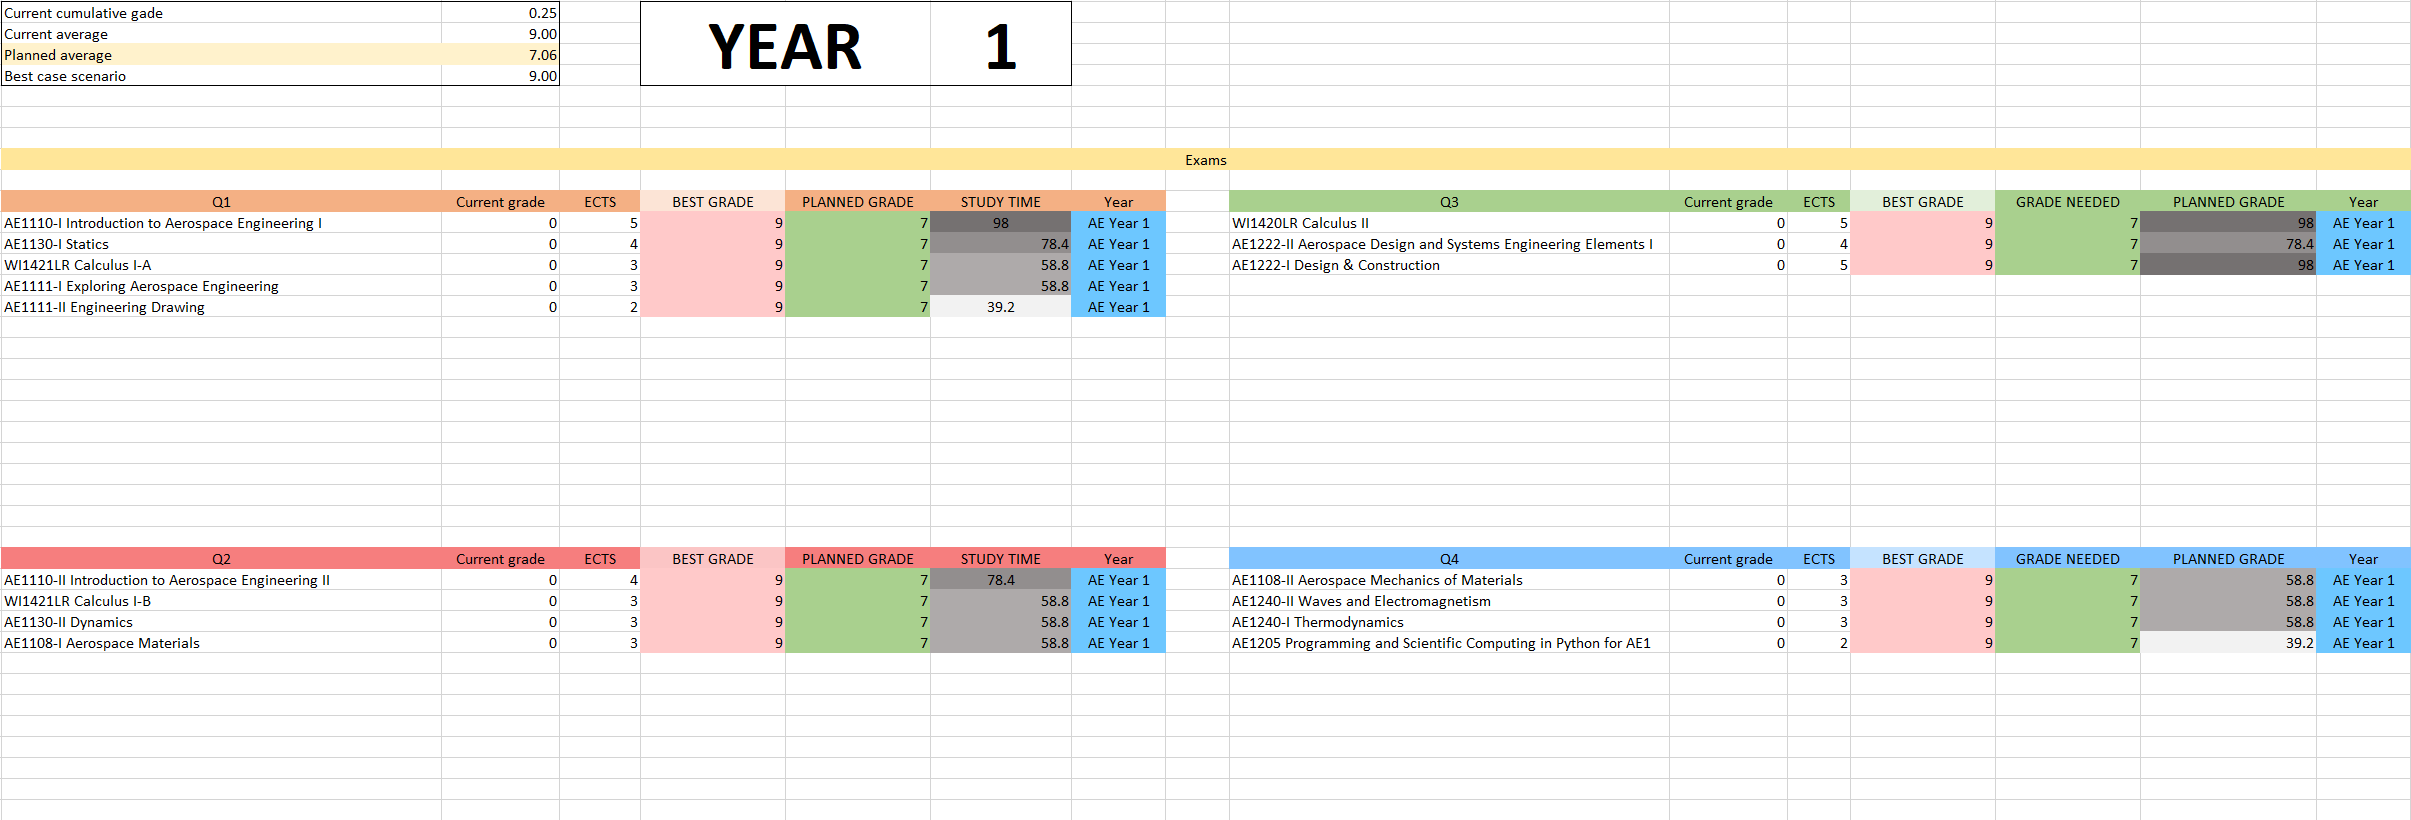
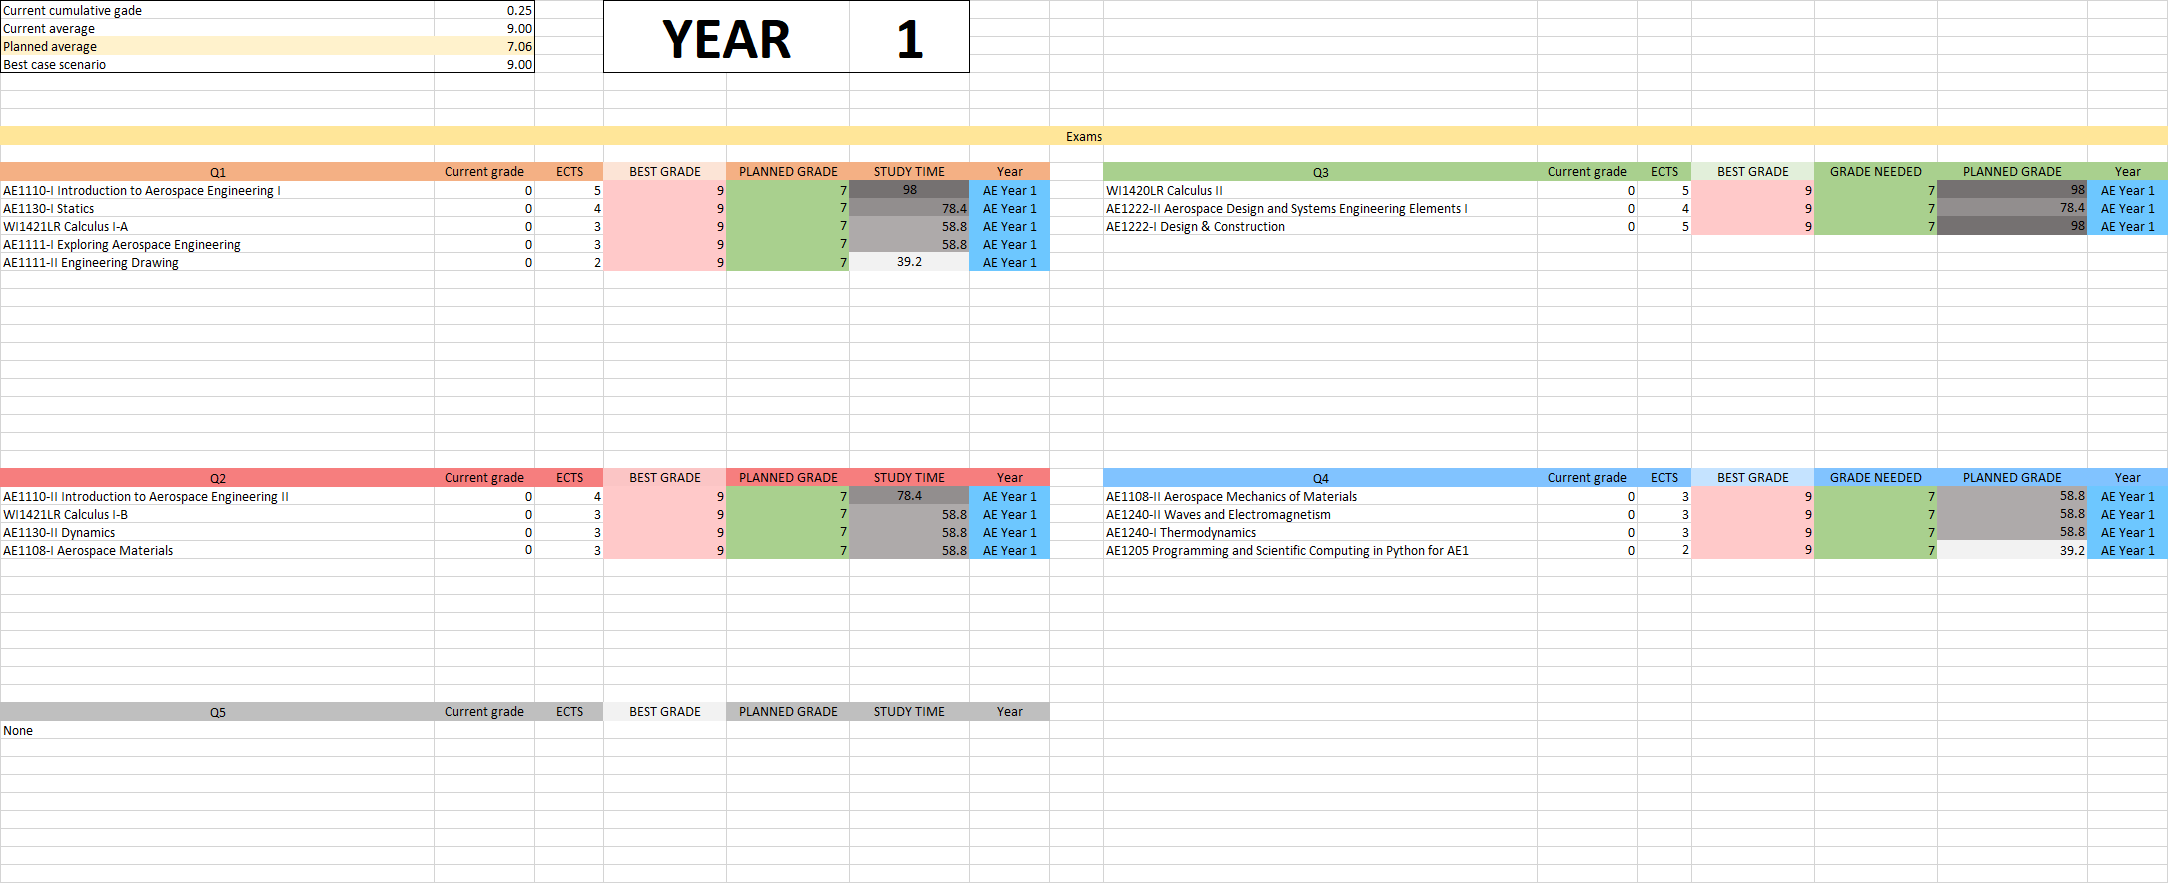
Major upgrade. Q5, resit handling, README

diff --git a/README.md b/README.md
@@ -61,7 +61,14 @@ Year-long exams dashboard, organized in quarters (excluding quarter 5, that migh
 
 You can change 1 parameter: the year you're in, at the top. The exams which will appear in the dashboard (as well as the [ `quarter` ](#25-dashboard---quarter) dashboard) are obviously the ones available at your year and the years below.
 
-Below is the exams dashboard for years 1, 2 and 3, if you have completed Linear Algebra alone, as in the `Courses` example above.
+NOTE: In the [ `quarter` ](#25-dashboard---quarter) dashboard you can set the quarter you're currently in. That, plus the year you're in are enough to display resits are handled as you'd expect: 
+- If you have to resit a subject in your year, you'll see it in the quarter after the original exam
+- If you have to resit a Year 2, Q2 subject, and you're in year 3, the following happens:
+  - If you're in Year 3 Q2, you'll see the subject in your Q2 dashboard.
+  - If you're in Year 3 Q3 (meaning you failed the resit and have to take it again) you'll see it in your Q3 dashboard
+  - If you move on to Year 3 Q4 without having passed it, you'll have to retake it again in "Year 4" Q2: thus, it will move back to the Q2 dashboard
+
+For the following examples, we'll say you have a 9 in Linear Algebra, and haven't done any other exams yet, as in the `Courses` example above. Below is the exams dashboard for years 1, 2 and 3 for that case (as expected, there's a lot of exams if you're in Year 3).
 
 | ![alt text](demo/exams1.png "No exams passed besides Linear Algebra: year 1") | 
 | --- | 
@@ -72,11 +79,11 @@ Below is the exams dashboard for years 1, 2 and 3, if you have completed Linear 
 
 In this dashboard you can specify 3 parameters:
 
-- `Quarter` - either "Q1", "Q2", "Q3" or "Q4"
+- `Quarter` - either 1, 2, 3, 4 or 5. Introduce the numbers directly, the cells are formatted to display "Q{number}"
 - `Study: start` - when do you plan on starting to study
 - `Study: end` - usually the first day of exam week
 
-You will immediately have your exam count, which exams you need to do this quarter, as well as the time you must study daily in the study period you have specified to get: 
+You will immediately how many days are left until exams, which exams you need to do this quarter, as well as the time you must study daily in the study period you have specified to get: 
 
 1. Your _maximum_ grade 
 2. Your _possible_ grade
